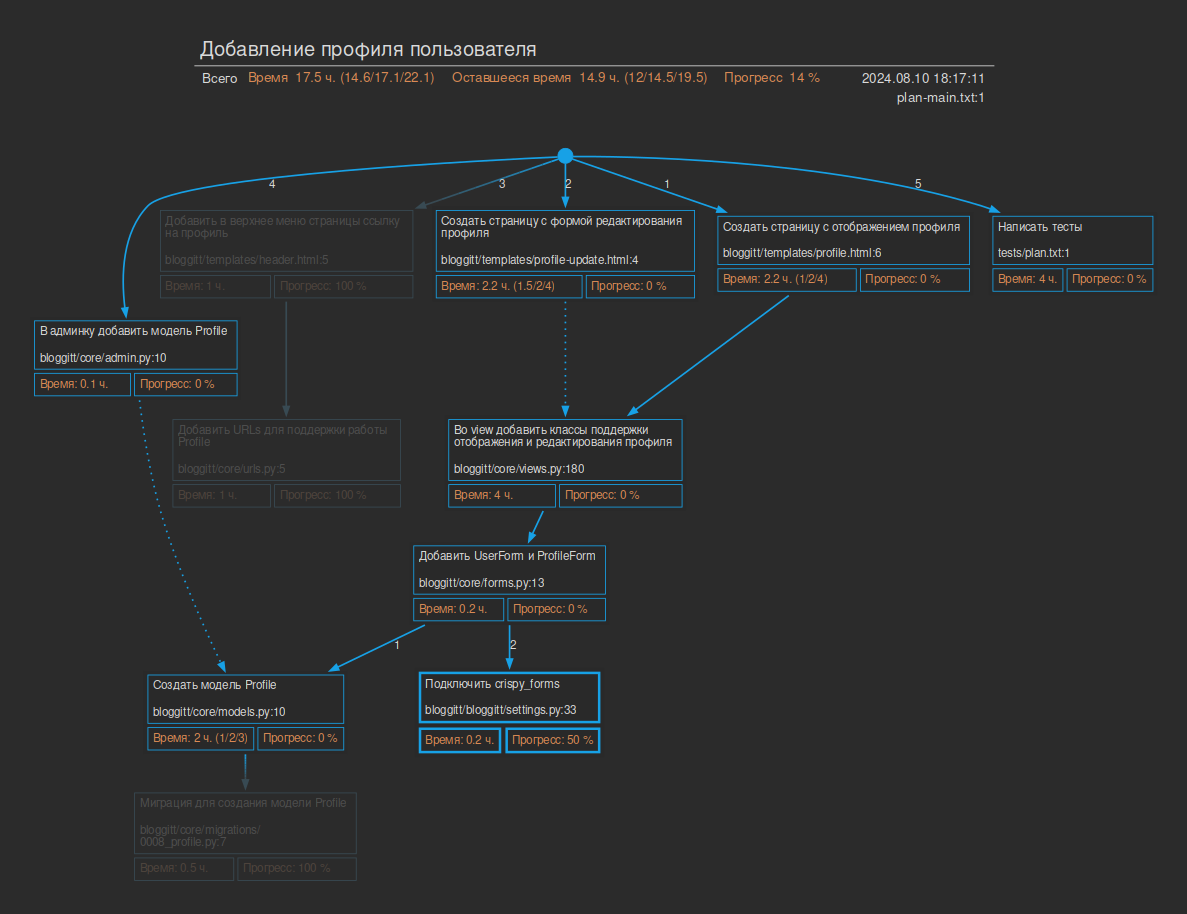
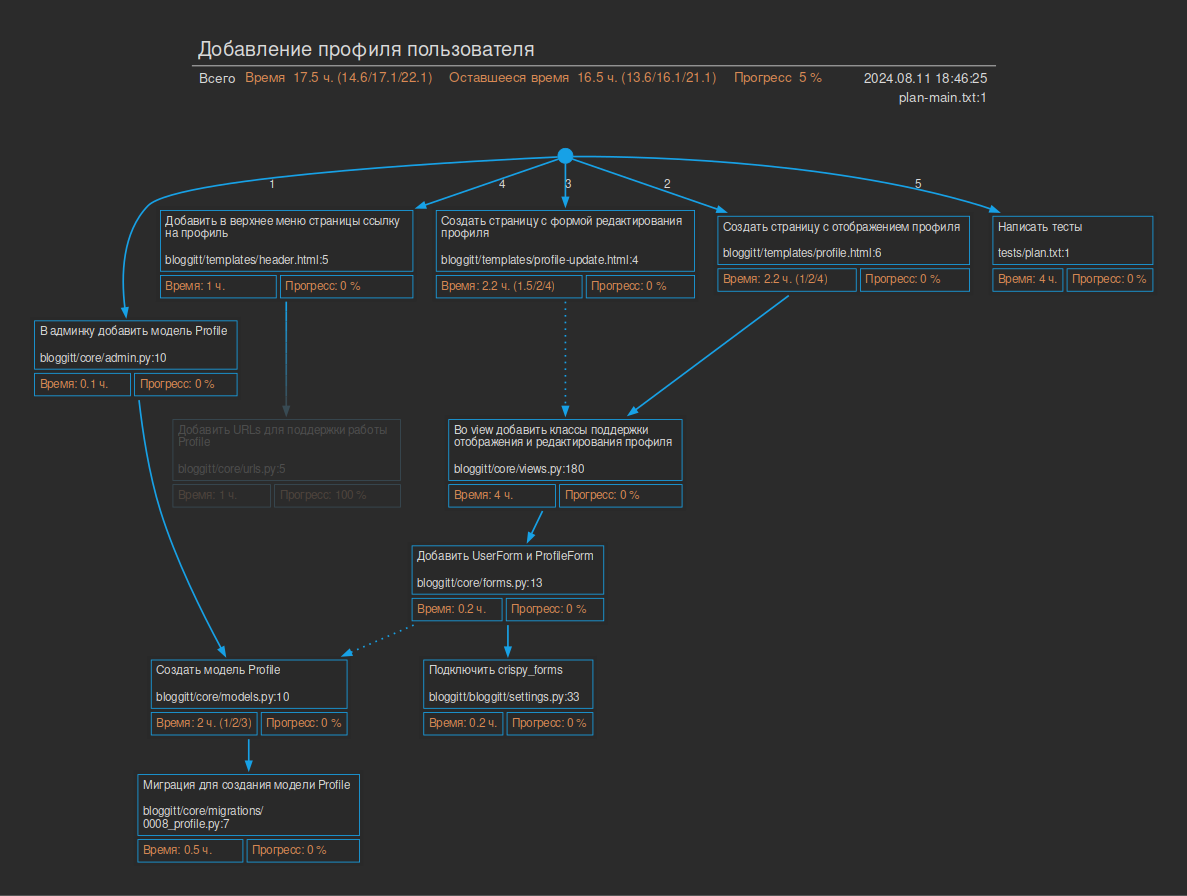
WIP

diff --git a/doc-examples/plan-graph-example.md b/doc-examples/plan-graph-example.md
@@ -1,0 +1,56 @@
+
+# Добавление профиля пользователя
+
+**Время: 17.5 ч. (14.6/17.1/22.1)**
+
+**Оставшееся время: 16.5 ч. (13.6/16.1/21.1)**
+
+**Прогресс: 5 %**
+
+2024.08.11 18:46:25
+
+## В админку добавить модель Profile
+- Файл: bloggitt/core/admin.py:10
+- Время: 0.1 ч.
+- Прогресс: 0 % 
+  ### Создать модель Profile
+  - Файл: bloggitt/core/models.py:10
+  - Время: 2 ч. (1/2/3)
+  - Прогресс: 0 % 
+    #### Миграция для создания модели Profile
+    - Файл: bloggitt/core/migrations/0008_profile.py:7
+    - Время: 0.5 ч.
+    - Прогресс: 0 % 
+## Создать страницу с отображением профиля
+- Файл: bloggitt/templates/profile.html:6
+- Время: 2.2 ч. (1/2/4)
+- Прогресс: 0 % 
+  ### Во view добавить классы поддержки отображения и редактирования профиля
+  - Файл: bloggitt/core/views.py:180
+  - Время: 4 ч.
+  - Прогресс: 0 % 
+    #### Добавить UserForm и ProfileForm
+    - Файл: bloggitt/core/forms.py:13
+    - Время: 0.2 ч.
+    - Прогресс: 0 % 
+      ##### Подключить crispy_forms
+      - Файл: bloggitt/bloggitt/settings.py:33
+      - Время: 0.2 ч.
+      - Прогресс: 0 % 
+## Создать страницу с формой редактирования профиля
+- Файл: bloggitt/templates/profile-update.html:4
+- Время: 2.2 ч. (1.5/2/4)
+- Прогресс: 0 % 
+## Добавить в верхнее меню страницы ссылку на профиль
+- Файл: bloggitt/templates/header.html:5
+- Время: 1 ч.
+- Прогресс: 0 % 
+  ###  ~~Добавить URLs для поддержки работы Profile~~ 
+  -  ~~Файл: bloggitt/core/urls.py:5~~ 
+  -  ~~Время: 1 ч.~~ 
+  -  ~~Прогресс: 100 %~~  
+## Написать тесты
+- Файл: tests/plan.txt:1
+- Время: 4 ч.
+- Прогресс: 0 % 
+
